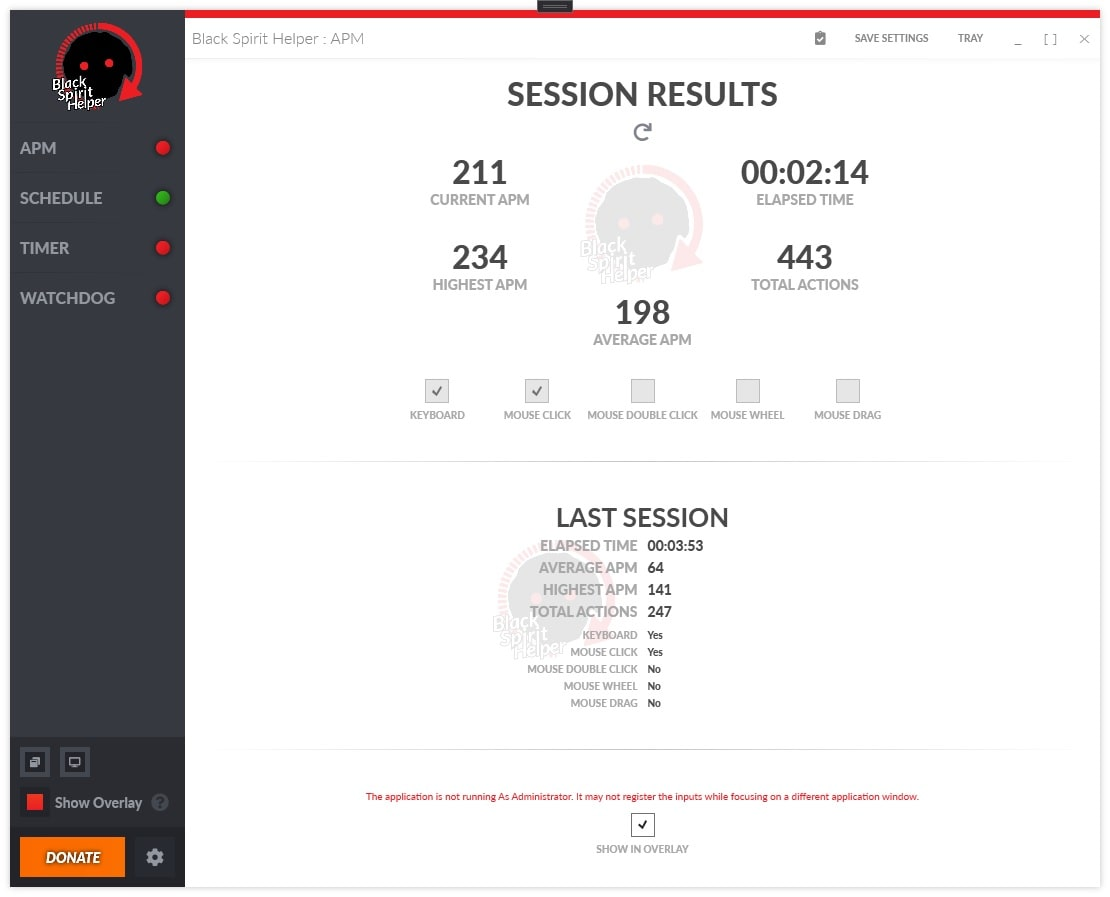
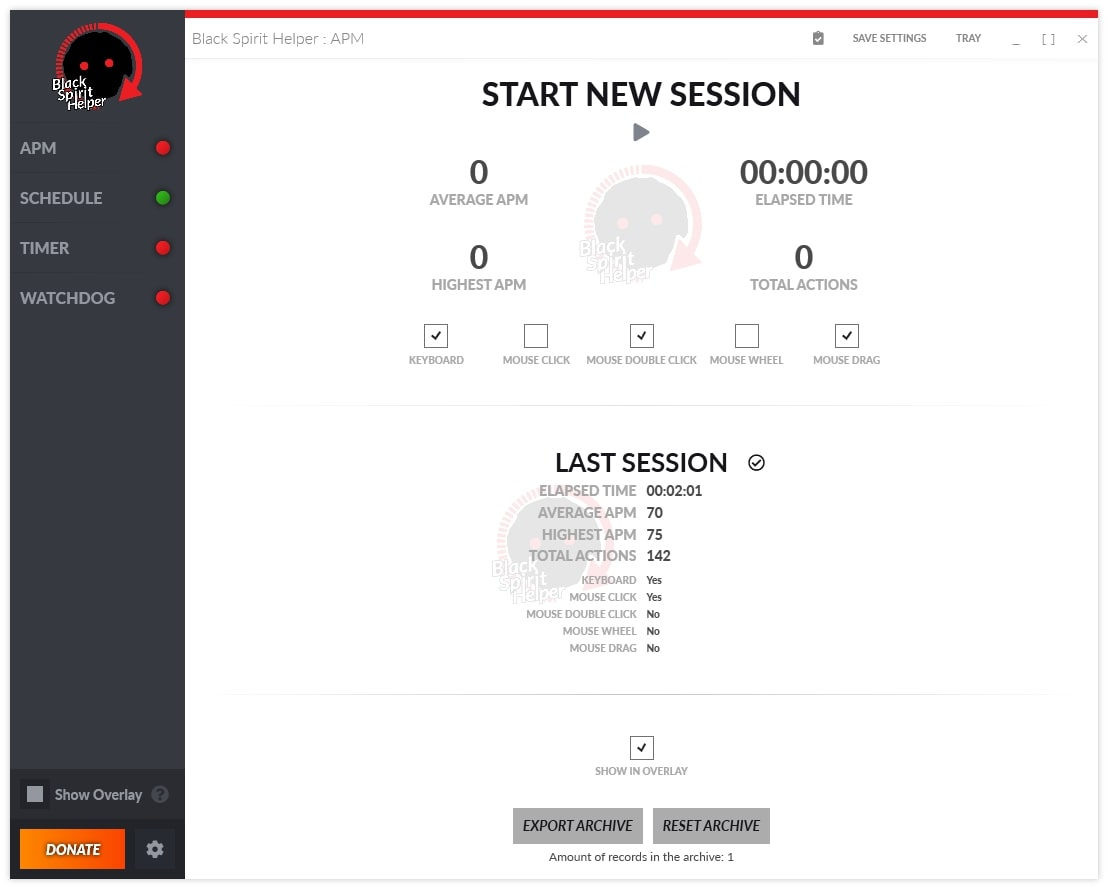
App preview update + Patch notes update

diff --git a/Release/patch_notes.md b/Release/patch_notes.md
@@ -10,6 +10,14 @@
 <!-- [text](url) : Can be anywhere in the text. Transform text into URL link. -->
 <!-- \ : escape formatting characters. -->
 <!-- -------------------------------------------------- -->
+## v1.4.4.0 (2020-11-28)
+**Pull: [#38](https://github.com/Frixs/BlackSpiritHelper/pull/38)**
+- Added archive functionality into APM section
+- Added sound alerts to APM section controls
+- Added option to set hotkey to control the APM section
+- Overlay hotkey has been reset to default settings to all users due to hotkeys optimization
+<br/>
+
 ## v1.4.3.0 (2020-11-27)
 **Pull: [#37](https://github.com/Frixs/BlackSpiritHelper/pull/37)**
 - APM section UX improvements
